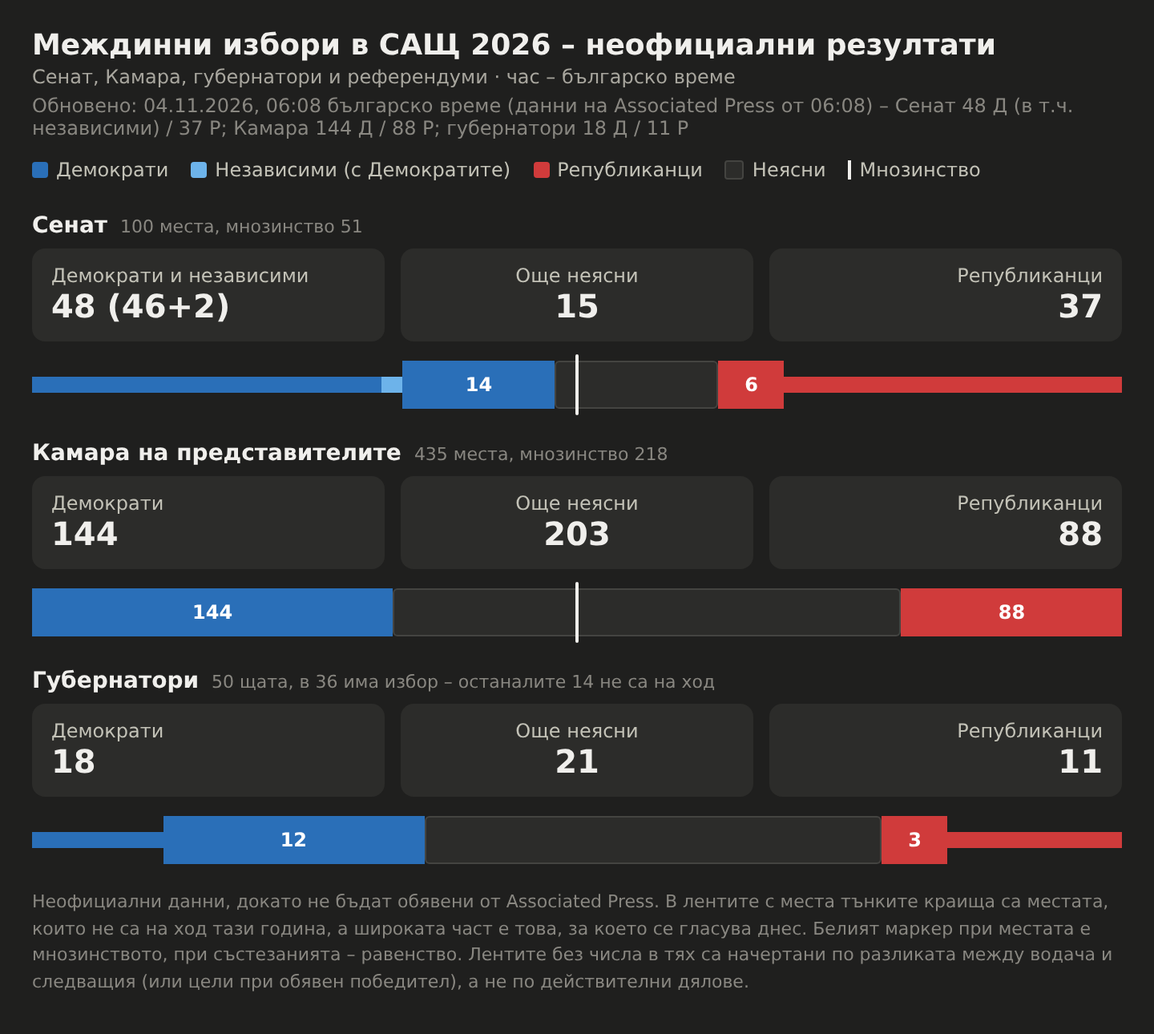
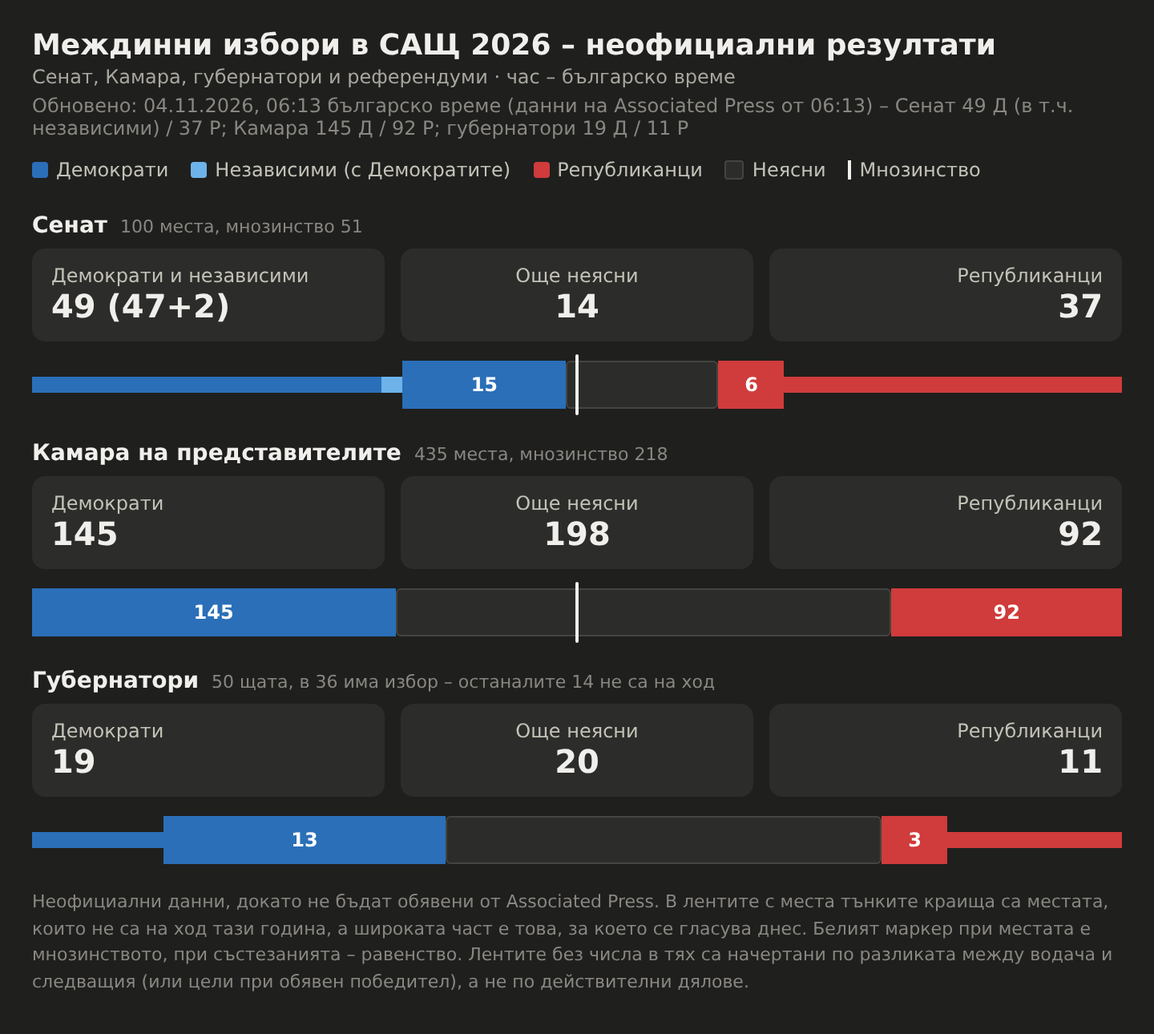
Обновяване 06:13 българско време: Сенат 49–37, Камара 145–92, губернатори 19–11
Claude-Session: https://claude.ai/code/session_013Bd4dyDeBGD9vdxVJ9tN9V

diff --git a/us-midterms-2026.11.03.html b/us-midterms-2026.11.03.html
@@ -53,13 +53,13 @@ h1{font-size:18px;font-weight:600;margin:0 0 2px}
 .empty{font-size:13px;color:var(--text-muted);padding:10px 0}
 .foot{font-size:11px;color:var(--text-muted);margin-top:16px;line-height:1.5}
 </style></head><body><div class="wrap">
-<h1>Междинни избори в САЩ 2026 – неофициални резултати</h1><div class="sub">Сенат, Камара, губернатори и референдуми · час – българско време</div><div class="upd">Обновено: 04.11.2026, 06:08 българско време (данни на Associated Press от 06:08) – Сенат 48 Д (в т.ч. независими) / 37 Р; Камара 144 Д / 88 Р; губернатори 18 Д / 11 Р</div>
+<h1>Междинни избори в САЩ 2026 – неофициални резултати</h1><div class="sub">Сенат, Камара, губернатори и референдуми · час – българско време</div><div class="upd">Обновено: 04.11.2026, 06:13 българско време (данни на Associated Press от 06:13) – Сенат 49 Д (в т.ч. независими) / 37 Р; Камара 145 Д / 92 Р; губернатори 19 Д / 11 Р</div>
 <div class="tabs" id="tabs"></div>
 <div id="view"></div>
 <div class="foot">Неофициални данни, докато не бъдат обявени от Associated Press. В лентите с места тънките краища са местата, които не са на ход тази година, а широката част е това, за което се гласува днес. Белият маркер при местата е мнозинството, при състезанията – равенство. Лентите без числа в тях са начертани по разликата между водача и следващия (или цели при обявен победител), а не по действителни дялове. Щракни на ред, за да видиш как се е променял или кои са окръзите на щата.</div>
 </div>
 <script>
-var DATA={"title": "Междинни избори в САЩ 2026 – неофициални резултати", "sub": "Сенат, Камара, губернатори и референдуми · час – българско време", "updated": "04.11.2026, 06:08 българско време (данни на Associated Press от 06:08) – Сенат 48 Д (в т.ч. независими) / 37 Р; Камара 144 Д / 88 Р; губернатори 18 Д / 11 Р", "times": ["01:30", "02:00", "02:15", "02:30", "03:30", "03:45", "04:05", "04:15", "04:20", "04:27", "05:03", "05:34", "06:08"], "chambers": {"sen": {"tot": 100, "mj": 51, "d": [32, 32, 33, 33, 41, 41, 43, 43, 43, 43, 43, 43, 46], "i": [2, 2, 2, 2, 2, 2, 2, 2, 2, 2, 2, 2, 2], "r": [31, 31, 31, 31, 31, 32, 34, 34, 35, 35, 36, 36, 37], "base": {"d": 32, "i": 2, "r": 31}}, "hou": {"tot": 435, "mj": 218, "d": [0, 0, 3, 6, 36, 44, 60, 71, 73, 79, 102, 120, 144], "i": [0, 0, 0, 0, 0, 0, 0, 0, 0, 0, 0, 0, 0], "r": [0, 0, 1, 2, 16, 21, 29, 31, 35, 41, 58, 67, 88], "base": {"d": 0, "i": 0, "r": 0}}, "gov": {"tot": 50, "d": [6, 6, 6, 6, 11, 11, 13, 13, 14, 15, 15, 15, 18], "i": [], "r": [8, 8, 8, 8, 8, 8, 9, 10, 10, 10, 10, 10, 11], "base": {"d": 6, "i": 0, "r": 8}}}, "senate": [["Върджиния", 100, 0, null, "<b>Обявен:</b> Демократи (Уорнър)", 1, [], 1], ["Северна Каролина", 100, 0, null, "<b>Обявен:</b> Демократи (Купър; място, което сега е на Републиканците)", 1, [], 1], ["Ню Хемпшър", 100, 0, null, "<b>Обявен:</b> Демократи (Папас)", 1, [], 1], ["Флорида", 0, 100, null, "<b>Обявена:</b> Републиканци (Муди, специален избор)", 1, [], 1], ["Кентъки", 0, 100, null, "<b>Обявен:</b> Републиканци (Бар)", 1, [], 1], ["Колорадо", 100, 0, null, "<b>Обявен:</b> Демократи (Хикенлупър)", 1, [], 1], ["Ню Мексико", 100, 0, null, "<b>Обявен:</b> Демократи (Лухан)", 1, [], 1], ["Уайоминг", 0, 100, null, "<b>Обявена:</b> Републиканци (Хагеман)", 1, [], 1], ["Джорджия", null, null, 91, "Води: Демократи (Ософ) – Associated Press не дава разлика", 0, []], ["Южна Каролина", 51.9, 48.1, 97, "Води: Демократи (Андрюс) – Associated Press вече не показва разлика", 0, [], 1], ["Охайо", 51.1, 48.9, 87, "Води: Демократи (Браун, +2,2 пункта)", 0, [], 1], ["Тексас", 100, 0, null, "<b>Обявен:</b> Демократи (Таларико; място, което сега е на Републиканците)", 1, [], 1], ["Канзас", 53.9, 46.1, 86, "Води: Демократи (Хамилтън, +7,8 пункта)", 0, [], 1], ["Мичиган", 52.25, 47.75, 30, "Води: Демократи (Ел-Саид, +4,5 пункта)", 0, [], 1], ["Мейн", 49.75, 50.25, 38, "Води: Републиканци (Колинс, под 1 пункт) – смяна на водача", 0, [], 1], ["Айова", 53.85, 46.15, 76, "Води: Демократи (Турек, +7,7 пункта)", 0, [], 1], ["Орегон", 100, 0, null, "<b>Обявен:</b> Демократи (Мъркли)", 1, [], 1]], "gov": [["Роуд Айлънд", 100, 0, null, "<b>Обявена:</b> Демократи (Фулкс)", 1, [], 1], ["Колорадо", 100, 0, null, "<b>Обявен:</b> Демократи (Уайзър)", 1, [], 1], ["Ню Йорк", 100, 0, null, "<b>Обявена:</b> Демократи (Хокъл)", 1, [], 1], ["Уайоминг", 0, 100, null, "<b>Обявен:</b> Републиканци (Барлоу)", 1, [], 1], ["Флорида", 0, 100, null, "<b>Обявен:</b> Републиканци (Доналдс)", 1, [], 1], ["Кънектикът", 100, 0, null, "<b>Обявен:</b> Демократи (Ламонт)", 1, [], 1], ["Джорджия", 100, 0, null, "<b>Обявена:</b> Демократи (Ботъмс; място, което сега е на Републиканците)", 1, [], 1], ["Калифорния", 100, 0, null, "<b>Обявен:</b> Демократи (Бесера)", 1, [], 1]], "housecontested": [["Вирджиния 1", 49.5, 50.2, 80, "Води: Републиканци", 0, []], ["Флорида 7", 49.1, 49.8, 98, "Води: Републиканци", 0, []], ["Флорида 9", 50.2, 49.8, 99, "Води: Демократи", 0, []], ["Флорида 13", 48.6, 49.5, 99, "Води: Републиканци", 0, []], ["Флорида 27", 49.8, 50.2, 95, "Води: Републиканци", 0, []], ["Вирджиния 5", 49.5, 48.8, 71, "Води: Демократи", 0, []], ["Северна Каролина 9", 51, 49, 89, "Води: Демократи", 0, []], ["Индиана 5", 52, 48, 88, "Води: Демократи", 0, []], ["Флорида 22", 52, 48, 99, "Води: Демократи", 0, []], ["Кентъки 6", 53, 43, 74, "Води: Демократи", 0, []], ["Мичиган 10", 51, 47, 11, "Води: Демократи", 0, []], ["Айова 2", 47.8, 48.7, 1, "Води: Републиканци", 0, []], ["Охайо 7", 59, 41, 43, "Води: Демократи", 0, []], ["Пенсилвания 1", 66, 34, 28, "Води: Демократи", 0, []], ["Тексас 35", 66, 34, 44, "Води: Демократи", 0, []], ["Ню Йорк 17", 57, 43, 2, "Води: Демократи", 0, []], ["Алабама 2", 38, 62, 8, "Води: Републиканци", 0, []], ["Мичиган 4", 27, 71, 1, "Води: Републиканци", 0, []]], "housestates": [], "measures": [["Мисури – Поправка 3 (аборти)", 43.7, 56.3, 73.2, "Води: Против", 0, [], 0, "Предложена поправка в конституцията на Мисури. Тя отменя правото на аборт до жизнеспособността на плода и позволява аборт само при медицинска спешност, аномалия на плода, или при изнасилване или кръвосмешение до 12-ата седмица от бременността. Забранява и лечения и операции за смяна на пола при непълнолетни."], ["Върджиния – Въпрос 1 (репродуктивни права)", 61.4, 38.6, 85.5, "Води: За", 0, [], 0, "Предложена поправка в конституцията на Върджиния. Тя създава репродуктивни права, включително право на аборт, на контрацепция и на грижи за плодовитостта. Абортът може да се регулира през третия триместър, но трябва да бъде разрешен, за да се защити животът или здравето на бременната жена или когато плодът не е жизнеспособен."], ["Върджиния – Въпрос 2 (брак)", 56.2, 43.8, 69.8, "Води: За", 0, [], 0, "Предложена поправка в конституцията на Върджиния. Тя отменя ограничението бракът да е само между мъж и жена и вместо това заявява, че на двама възрастни не може да се отказва брак заради пол, полова идентичност или раса."], ["Върджиния – Въпрос 3 (право на глас)", 55.4, 44.6, 85.7, "Води: За", 0, [], 0, "Предложена поправка в конституцията на Върджиния. Тя създава основно право да се гласува и възстановява отнетите избирателни права на осъдени за тежки престъпления, след като бъдат освободени от затвора."], ["Мисури – Предложение A (нови окръзи за Камарата)", 37.6, 62.4, 71.7, "Води: Против", 0, [], 0, "Референдум, в който гласоподавателите в Мисури решават дали да се приемат новите окръзи за Камарата на представителите на САЩ, приети от законодателите на щата през 2025 г."], ["Мериленд – Въпрос 3 (окръзи за Конгреса)", 60.0, 40.0, 62, "Води: За", 0, [], 0, "Предложена поправка в конституцията на Мериленд. Тя премахва ограниченията при прекрояването на окръзите за Конгреса. Изискването окръзите да са компактни и да уважават „природните граници“ ще важи само за окръзите на законодателния орган на щата, а не за окръзите за Конгреса."], ["Охайо – Въпрос 3 (документ със снимка)", 66.0, 34.0, 79.8, "Води: За", 0, [], 0, "Предложена поправка в конституцията на Охайо. Тя изисква държавен документ със снимка, за да се гласува лично, с изключение за религиозни убеждения. Който гласува по друг начин, трябва да представи или документ със снимка, или номер на държавен документ за самоличност."], ["Северна Каролина – Поправка SB 921 (документ със снимка)", 59.7, 40.3, 95.6, "Води: За", 0, [], 0, "Предложена поправка в конституцията на Северна Каролина. Тя изисква документ със снимка, за да се гласува по какъвто и да е начин, а не само когато се гласува лично."], ["Канзас – Поправка 1 (неграждани)", 61.3, 38.7, 73.3, "Води: За", 0, [], 0, "Предложена поправка в конституцията на Канзас. Тя забранява на неграждани да гласуват на избори."], ["Масачузетс – Въпрос 3 (отворени първични избори)", 38.6, 61.4, 24.6, "Води: Против", 0, [], 0, "Мярката премахва отделните първични избори на партиите и въвежда отворени първични избори, в които двамата с най-много гласове преминават към общите избори. Изисква и кандидатите за губернатор да бъдат в двойка с кандидат за заместник-губернатор в първичните избори."], ["Масачузетс – Въпрос 8 (марихуана)", 20.4, 79.6, 4.5, "Води: Против", 0, [], 0, "Мярката отменя законите, които позволяват законна продажба на марихуана за развлекателни цели, но не налага наказателни санкции за притежание на по-малко от две унции. Медицинската марихуана остава законна."], ["Колорадо – Поправка 81 (имиграция)", 44.2, 55.8, 62.3, "Води: Против", 0, [], 0, "Предложена поправка в конституцията на Колорадо. Тя изисква служителите на реда да уведомяват Министерството на вътрешната сигурност на САЩ, когато обвиняват хора в тежки престъпления или, при хора с предишни присъди за тежки престъпления, в което и да е престъпление, ако може да са в САЩ незаконно."], ["Колорадо – Предложение 135 (непълнолетни и смяна на пола)", 51.05, 48.95, 62, "Води: За", 0, [], 0, "Мярката забранява операции за промяна на половите белези на непълнолетни в отговор на възприеманата полова идентичност или пол на детето. Забранява и държавно финансиране за такива операции."], ["Тенеси – Поправка 2 (данъци върху имоти)", 66.2, 33.8, 71.6, "Води: За", 0, [], 0, "Предложена поправка в конституцията на Тенеси. Тя забранява на щата да налага данъци върху имоти."], ["Северна Дакота – Мярка 2 (безплатни училищни обяди)", 44.6, 55.4, 11.3, "Води: Против", 0, [], 0, "Предложена поправка в конституцията на Северна Дакота. Тя изисква държавните училища да осигуряват безплатна закуска и обяд на всички ученици."], ["Арканзас – Въпрос 1 (неграждани)", 68.2, 31.8, 75.3, "Води: За", 0, [], 1, "Предложена поправка в конституцията на Арканзас. Тя заявява, че само граждани могат да гласуват на избори на щата и местни избори."], ["Аризона – Предложение 144 (неграждани и документ за самоличност)", 43.0, 57.0, 66.9, "Води: Против", 0, [], 1, "Предложена поправка в конституцията на Аризона. Тя забранява на неграждани да гласуват, изисква държавен документ за самоличност за гласуване и забранява чужди вноски и разходи в изборите."], ["Масачузетс – Въпрос 4 (регистрация в деня на изборите)", 59.5, 40.5, 23, "Води: За", 0, [], 1, "Мярката позволява регистрация за гласуване в избирателните секции в деня на изборите и отменя изискването за регистрация поне 10 дни преди изборите."], ["Северна Дакота – Мярка 1 (60% за поправки)", 44.2, 55.8, 60.1, "Води: Против", 0, [], 1, "Предложена поправка в конституцията на Северна Дакота. Тя изисква 60% подкрепа от гласоподавателите, за да се приемат бъдещи поправки в конституцията."], ["Южна Дакота – Поправка L (60% за поправки)", 42.4, 57.6, 24, "Води: Против", 0, [], 1, "Предложена поправка в конституцията на Южна Дакота. Тя изисква 60% подкрепа от гласоподавателите, за да се приемат бъдещи поправки в конституцията."]], "foot": "Неофициални данни, докато не бъдат обявени от Associated Press. В лентите с места тънките краища са местата, които не са на ход тази година, а широката част е това, за което се гласува днес. Белият маркер при местата е мнозинството, при състезанията – равенство. Лентите без числа в тях са начертани по разликата между водача и следващия (или цели при обявен победител), а не по действителни дялове. Щракни на ред, за да видиш как се е променял или кои са окръзите на щата."};
+var DATA={"title": "Междинни избори в САЩ 2026 – неофициални резултати", "sub": "Сенат, Камара, губернатори и референдуми · час – българско време", "updated": "04.11.2026, 06:13 българско време (данни на Associated Press от 06:13) – Сенат 49 Д (в т.ч. независими) / 37 Р; Камара 145 Д / 92 Р; губернатори 19 Д / 11 Р", "times": ["01:30", "02:00", "02:15", "02:30", "03:30", "03:45", "04:05", "04:15", "04:20", "04:27", "05:03", "05:34", "06:08", "06:13"], "chambers": {"sen": {"tot": 100, "mj": 51, "d": [32, 32, 33, 33, 41, 41, 43, 43, 43, 43, 43, 43, 46, 47], "i": [2, 2, 2, 2, 2, 2, 2, 2, 2, 2, 2, 2, 2, 2], "r": [31, 31, 31, 31, 31, 32, 34, 34, 35, 35, 36, 36, 37, 37], "base": {"d": 32, "i": 2, "r": 31}}, "hou": {"tot": 435, "mj": 218, "d": [0, 0, 3, 6, 36, 44, 60, 71, 73, 79, 102, 120, 144, 145], "i": [0, 0, 0, 0, 0, 0, 0, 0, 0, 0, 0, 0, 0, 0], "r": [0, 0, 1, 2, 16, 21, 29, 31, 35, 41, 58, 67, 88, 92], "base": {"d": 0, "i": 0, "r": 0}}, "gov": {"tot": 50, "d": [6, 6, 6, 6, 11, 11, 13, 13, 14, 15, 15, 15, 18, 19], "i": [], "r": [8, 8, 8, 8, 8, 8, 9, 10, 10, 10, 10, 10, 11, 11], "base": {"d": 6, "i": 0, "r": 8}}}, "senate": [["Върджиния", 100, 0, null, "<b>Обявен:</b> Демократи (Уорнър)", 1, [], 1], ["Северна Каролина", 100, 0, null, "<b>Обявен:</b> Демократи (Купър; място, което сега е на Републиканците)", 1, [], 1], ["Ню Хемпшър", 100, 0, null, "<b>Обявен:</b> Демократи (Папас)", 1, [], 1], ["Флорида", 0, 100, null, "<b>Обявена:</b> Републиканци (Муди, специален избор)", 1, [], 1], ["Кентъки", 0, 100, null, "<b>Обявен:</b> Републиканци (Бар)", 1, [], 1], ["Колорадо", 100, 0, null, "<b>Обявен:</b> Демократи (Хикенлупър)", 1, [], 1], ["Ню Мексико", 100, 0, null, "<b>Обявен:</b> Демократи (Лухан)", 1, [], 1], ["Уайоминг", 0, 100, null, "<b>Обявена:</b> Републиканци (Хагеман)", 1, [], 1], ["Джорджия", null, null, 91, "Води: Демократи (Ософ) – Associated Press не дава разлика", 0, []], ["Южна Каролина", 100, 0, null, "<b>Обявена:</b> Демократи (Андрюс; място, което сега е на Републиканците)", 1, [], 1], ["Охайо", 100, 0, null, "<b>Обявен:</b> Демократи (Браун, специален избор; място, което сега е на Републиканците)", 1, [], 1], ["Тексас", 100, 0, null, "<b>Обявен:</b> Демократи (Таларико; място, което сега е на Републиканците)", 1, [], 1], ["Канзас", 53.7, 46.3, 88, "Води: Демократи (Хамилтън, +7,4 пункта)", 0, [], 1], ["Мичиган", 51.95, 48.05, 32, "Води: Демократи (Ел-Саид, +3,9 пункта)", 0, [], 1], ["Мейн", 49.75, 50.25, 39, "Води: Републиканци (Колинс, под 1 пункт) – смяна на водача", 0, [], 1], ["Айова", 53.55, 46.45, 81, "Води: Демократи (Турек, +7,1 пункта)", 0, [], 1], ["Орегон", 100, 0, null, "<b>Обявен:</b> Демократи (Мъркли)", 1, [], 1]], "gov": [["Роуд Айлънд", 100, 0, null, "<b>Обявена:</b> Демократи (Фулкс)", 1, [], 1], ["Колорадо", 100, 0, null, "<b>Обявен:</b> Демократи (Уайзър)", 1, [], 1], ["Ню Йорк", 100, 0, null, "<b>Обявена:</b> Демократи (Хокъл)", 1, [], 1], ["Уайоминг", 0, 100, null, "<b>Обявен:</b> Републиканци (Барлоу)", 1, [], 1], ["Флорида", 0, 100, null, "<b>Обявен:</b> Републиканци (Доналдс)", 1, [], 1], ["Кънектикът", 100, 0, null, "<b>Обявен:</b> Демократи (Ламонт)", 1, [], 1], ["Джорджия", 100, 0, null, "<b>Обявена:</b> Демократи (Ботъмс; място, което сега е на Републиканците)", 1, [], 1], ["Калифорния", 100, 0, null, "<b>Обявен:</b> Демократи (Бесера)", 1, [], 1], ["Айова", 100, 0, null, "<b>Обявен:</b> Демократи (Санд; място, което сега е на Републиканците)", 1, [], 1]], "housecontested": [["Вирджиния 1", 49.5, 50.2, 80, "Води: Републиканци", 0, []], ["Флорида 7", 49.1, 49.8, 98, "Води: Републиканци", 0, []], ["Флорида 9", 50.2, 49.8, 99, "Води: Демократи", 0, []], ["Флорида 13", 48.6, 49.5, 99, "Води: Републиканци", 0, []], ["Флорида 27", 49.8, 50.2, 95, "Води: Републиканци", 0, []], ["Вирджиния 5", 49.5, 48.8, 71, "Води: Демократи", 0, []], ["Северна Каролина 9", 51, 49, 89, "Води: Демократи", 0, []], ["Индиана 5", 52, 48, 88, "Води: Демократи", 0, []], ["Флорида 22", 52, 48, 99, "Води: Демократи", 0, []], ["Кентъки 6", 53, 43, 74, "Води: Демократи", 0, []], ["Мичиган 10", 51, 47, 11, "Води: Демократи", 0, []], ["Айова 2", 47.8, 48.7, 1, "Води: Републиканци", 0, []], ["Охайо 7", 59, 41, 43, "Води: Демократи", 0, []], ["Пенсилвания 1", 66, 34, 28, "Води: Демократи", 0, []], ["Тексас 35", 66, 34, 44, "Води: Демократи", 0, []], ["Ню Йорк 17", 57, 43, 2, "Води: Демократи", 0, []], ["Алабама 2", 38, 62, 8, "Води: Републиканци", 0, []], ["Мичиган 4", 27, 71, 1, "Води: Републиканци", 0, []]], "housestates": [], "measures": [["Мисури – Поправка 3 (аборти)", 43.7, 56.3, 73.2, "Води: Против", 0, [], 0, "Предложена поправка в конституцията на Мисури. Тя отменя правото на аборт до жизнеспособността на плода и позволява аборт само при медицинска спешност, аномалия на плода, или при изнасилване или кръвосмешение до 12-ата седмица от бременността. Забранява и лечения и операции за смяна на пола при непълнолетни."], ["Върджиния – Въпрос 1 (репродуктивни права)", 61.4, 38.6, 85.5, "Води: За", 0, [], 0, "Предложена поправка в конституцията на Върджиния. Тя създава репродуктивни права, включително право на аборт, на контрацепция и на грижи за плодовитостта. Абортът може да се регулира през третия триместър, но трябва да бъде разрешен, за да се защити животът или здравето на бременната жена или когато плодът не е жизнеспособен."], ["Върджиния – Въпрос 2 (брак)", 56.2, 43.8, 69.8, "Води: За", 0, [], 0, "Предложена поправка в конституцията на Върджиния. Тя отменя ограничението бракът да е само между мъж и жена и вместо това заявява, че на двама възрастни не може да се отказва брак заради пол, полова идентичност или раса."], ["Върджиния – Въпрос 3 (право на глас)", 55.4, 44.6, 85.7, "Води: За", 0, [], 0, "Предложена поправка в конституцията на Върджиния. Тя създава основно право да се гласува и възстановява отнетите избирателни права на осъдени за тежки престъпления, след като бъдат освободени от затвора."], ["Мисури – Предложение A (нови окръзи за Камарата)", 37.6, 62.4, 71.7, "Води: Против", 0, [], 0, "Референдум, в който гласоподавателите в Мисури решават дали да се приемат новите окръзи за Камарата на представителите на САЩ, приети от законодателите на щата през 2025 г."], ["Мериленд – Въпрос 3 (окръзи за Конгреса)", 60.0, 40.0, 62, "Води: За", 0, [], 0, "Предложена поправка в конституцията на Мериленд. Тя премахва ограниченията при прекрояването на окръзите за Конгреса. Изискването окръзите да са компактни и да уважават „природните граници“ ще важи само за окръзите на законодателния орган на щата, а не за окръзите за Конгреса."], ["Охайо – Въпрос 3 (документ със снимка)", 66.0, 34.0, 79.8, "Води: За", 0, [], 0, "Предложена поправка в конституцията на Охайо. Тя изисква държавен документ със снимка, за да се гласува лично, с изключение за религиозни убеждения. Който гласува по друг начин, трябва да представи или документ със снимка, или номер на държавен документ за самоличност."], ["Северна Каролина – Поправка SB 921 (документ със снимка)", 59.7, 40.3, 95.6, "Води: За", 0, [], 0, "Предложена поправка в конституцията на Северна Каролина. Тя изисква документ със снимка, за да се гласува по какъвто и да е начин, а не само когато се гласува лично."], ["Канзас – Поправка 1 (неграждани)", 61.3, 38.7, 73.3, "Води: За", 0, [], 0, "Предложена поправка в конституцията на Канзас. Тя забранява на неграждани да гласуват на избори."], ["Масачузетс – Въпрос 3 (отворени първични избори)", 38.6, 61.4, 24.6, "Води: Против", 0, [], 0, "Мярката премахва отделните първични избори на партиите и въвежда отворени първични избори, в които двамата с най-много гласове преминават към общите избори. Изисква и кандидатите за губернатор да бъдат в двойка с кандидат за заместник-губернатор в първичните избори."], ["Масачузетс – Въпрос 8 (марихуана)", 20.4, 79.6, 4.5, "Води: Против", 0, [], 0, "Мярката отменя законите, които позволяват законна продажба на марихуана за развлекателни цели, но не налага наказателни санкции за притежание на по-малко от две унции. Медицинската марихуана остава законна."], ["Колорадо – Поправка 81 (имиграция)", 44.2, 55.8, 62.3, "Води: Против", 0, [], 0, "Предложена поправка в конституцията на Колорадо. Тя изисква служителите на реда да уведомяват Министерството на вътрешната сигурност на САЩ, когато обвиняват хора в тежки престъпления или, при хора с предишни присъди за тежки престъпления, в което и да е престъпление, ако може да са в САЩ незаконно."], ["Колорадо – Предложение 135 (непълнолетни и смяна на пола)", 51.05, 48.95, 62, "Води: За", 0, [], 0, "Мярката забранява операции за промяна на половите белези на непълнолетни в отговор на възприеманата полова идентичност или пол на детето. Забранява и държавно финансиране за такива операции."], ["Тенеси – Поправка 2 (данъци върху имоти)", 66.2, 33.8, 71.6, "Води: За", 0, [], 0, "Предложена поправка в конституцията на Тенеси. Тя забранява на щата да налага данъци върху имоти."], ["Северна Дакота – Мярка 2 (безплатни училищни обяди)", 44.6, 55.4, 11.3, "Води: Против", 0, [], 0, "Предложена поправка в конституцията на Северна Дакота. Тя изисква държавните училища да осигуряват безплатна закуска и обяд на всички ученици."], ["Арканзас – Въпрос 1 (неграждани)", 68.2, 31.8, 75.3, "Води: За", 0, [], 1, "Предложена поправка в конституцията на Арканзас. Тя заявява, че само граждани могат да гласуват на избори на щата и местни избори."], ["Аризона – Предложение 144 (неграждани и документ за самоличност)", 43.0, 57.0, 66.9, "Води: Против", 0, [], 1, "Предложена поправка в конституцията на Аризона. Тя забранява на неграждани да гласуват, изисква държавен документ за самоличност за гласуване и забранява чужди вноски и разходи в изборите."], ["Масачузетс – Въпрос 4 (регистрация в деня на изборите)", 59.5, 40.5, 23, "Води: За", 0, [], 1, "Мярката позволява регистрация за гласуване в избирателните секции в деня на изборите и отменя изискването за регистрация поне 10 дни преди изборите."], ["Северна Дакота – Мярка 1 (60% за поправки)", 44.2, 55.8, 60.1, "Води: Против", 0, [], 1, "Предложена поправка в конституцията на Северна Дакота. Тя изисква 60% подкрепа от гласоподавателите, за да се приемат бъдещи поправки в конституцията."], ["Южна Дакота – Поправка L (60% за поправки)", 42.4, 57.6, 24, "Води: Против", 0, [], 1, "Предложена поправка в конституцията на Южна Дакота. Тя изисква 60% подкрепа от гласоподавателите, за да се приемат бъдещи поправки в конституцията."]], "foot": "Неофициални данни, докато не бъдат обявени от Associated Press. В лентите с места тънките краища са местата, които не са на ход тази година, а широката част е това, за което се гласува днес. Белият маркер при местата е мнозинството, при състезанията – равенство. Лентите без числа в тях са начертани по разликата между водача и следващия (или цели при обявен победител), а не по действителни дялове. Щракни на ред, за да видиш как се е променял или кои са окръзите на щата."};
 var D='#2a6fb8',I='#6db3ea',R='#d03b3b',Y='#1baf7a',N='#eb6834';
 var f=function(v){return String(Math.round(v*10)/10).replace('.',',')+'%'};
 var leg=function(a,lm){return '<div class="leg">'+a.map(function(x){return '<span><i class="sw" style="background:'+x[0]+(x[2]?';border:1px solid var(--border)':'')+'"></i>'+x[1]+'</span>'}).join('')+'<span><i class="mk"></i>'+lm+'</span></div>'};
